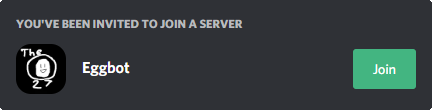
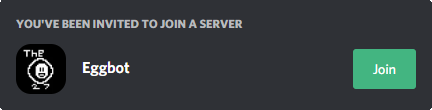
renamed variables, disabled safeguard disabling, as initial intent is no longer a goal, update invite.png

Changed region(s): [[0.0301, 0.4364, 0.1505, 0.8182]]

diff --git a/eggbot-1.0.py b/eggbot-1.0.py
@@ -52,24 +52,22 @@ with open("simp.txt", "r") as sim:
     simp = sim.read().replace('\n', ' ')
     simp = simp.split(' ')
 eggc = 0
-EGGCHECK = True
-
-# Set this to False if you feel like DDoSing Discord with the egg command
-safeguard = True
+emotecheck = False
 
 
 # Egg and Simp command due to special parsing
 @bot.event
 async def on_message(message):
-    global eggc, EGGCHECK
+    global eggc, emotecheck
     if message.content.lower() in (':egghead:', '*:egghead:*', '**:egghead:**', '***:egghead:***', '`:egghead:`',
                                    '||:egghead:||'):
-        if EGGCHECK:
+        if emotecheck:
             await message.channel.send("Woah! Looks like I don't have access"
                                        " to my emotes! Did <@" + str(host) + "> add me to the Eggbot Discord Server?")
-    if safeguard and message.author.id == botid:
+    if message.author.id == botid:
         return
     else:
+        emotecheck = False
         mess = message.content.lower()
         if mess.startswith("`e") or mess.startswith("*e") or mess.startswith("|e") or mess.startswith("~"):
             mess = mess[1:-1]
@@ -84,18 +82,17 @@ async def on_message(message):
             mess = mess
         elif mess.startswith("simp"):
             mess = mess
-        else:
-            return
         a = mess.split()
         print(a)
         if a[0] == "egg" or a[0] == "eeg" or a[0] == "eg":
             sno = random.randrange(0, len(spic))
             await message.channel.send(spic[sno] + eggs[random.randrange(0, len(eggs))] + spic[sno])
             eggc = eggc + 1
-            EGGCHECK = True
+            emotecheck = True
         elif a[0] == "simp":
             sno = random.randrange(0, len(spic))
             await message.channel.send(spic[sno] + simp[random.randrange(0, len(simp))] + spic[sno])
+            emotecheck = True
         else:
             await bot.process_commands(message)
 
